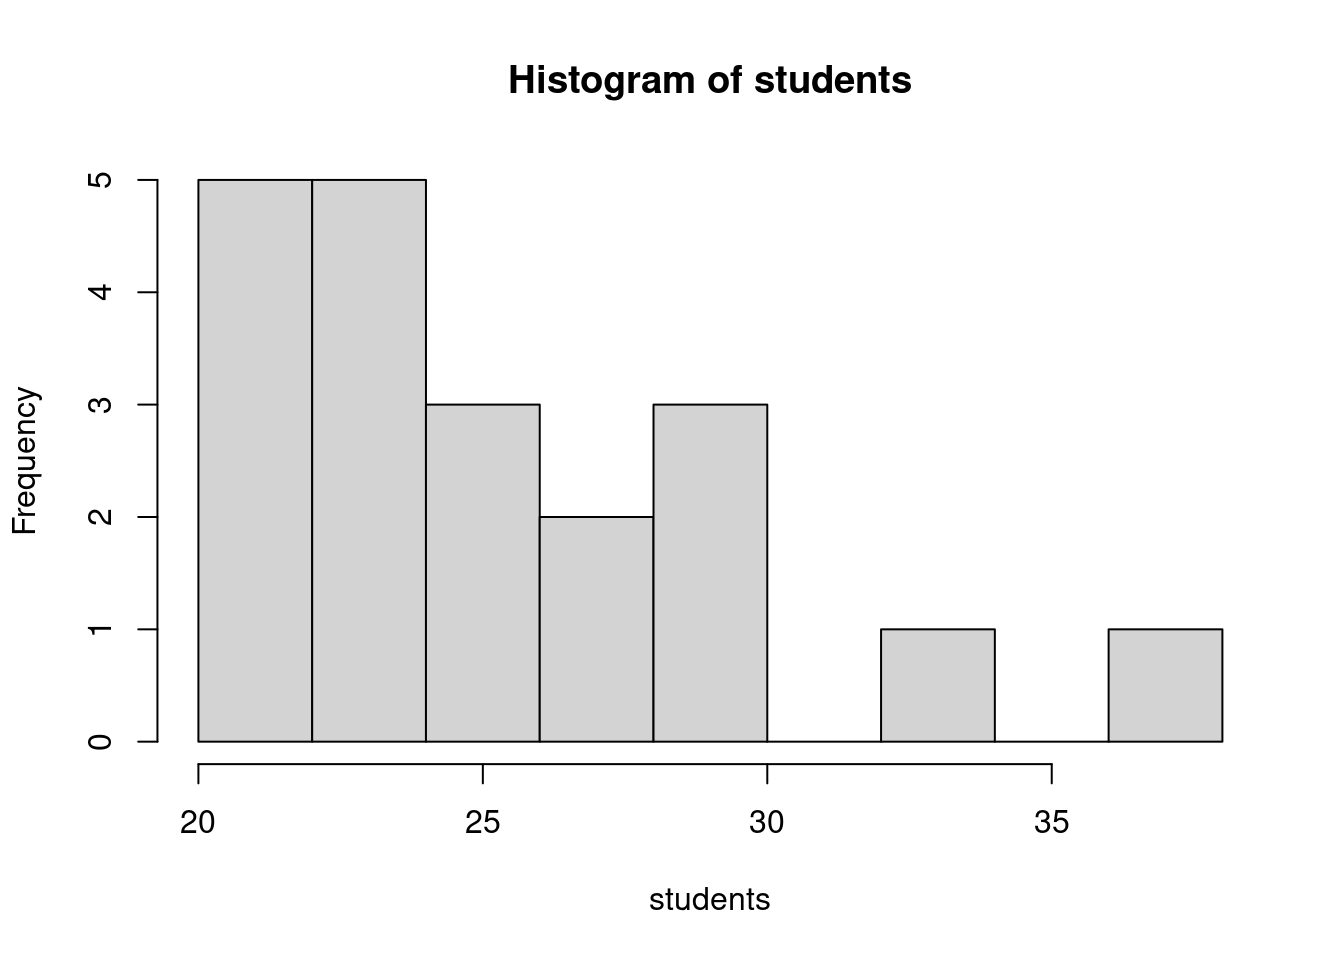
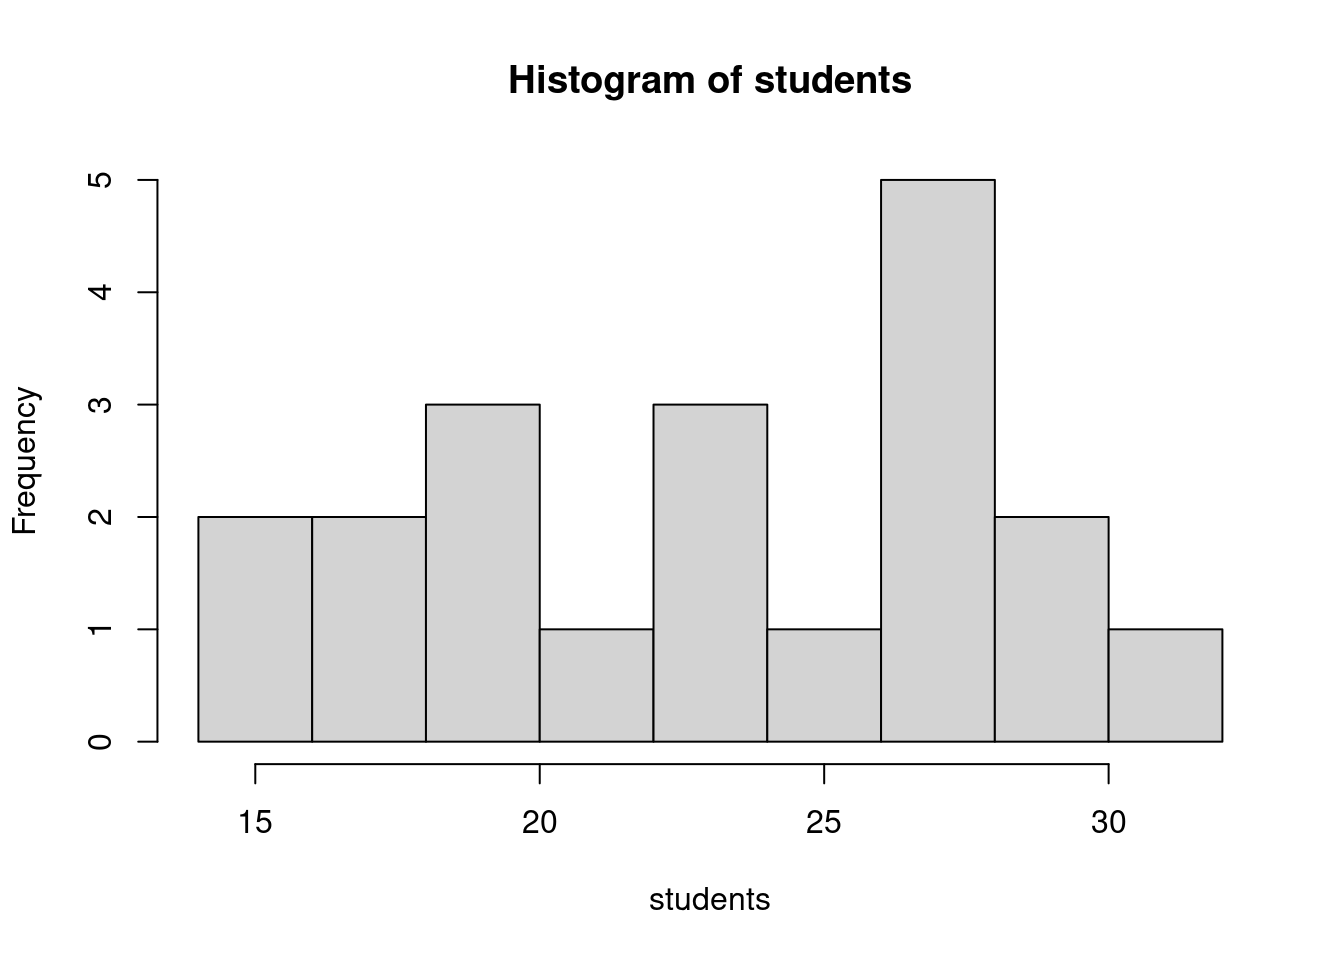
fixed an embarssing mistake in Chapter 3; added option of using R studio in a campus computer lab

diff --git a/_book/what-is-statistics.html b/_book/what-is-statistics.html
@@ -24,7 +24,7 @@
 <meta name="author" content="Virgil U Pierce" />
 
 
-<meta name="date" content="2021-05-17" />
+<meta name="date" content="2021-05-18" />
 
   <meta name="viewport" content="width=device-width, initial-scale=1" />
   <meta name="apple-mobile-web-app-capable" content="yes" />
@@ -253,6 +253,7 @@ code span.wa { color: #60a0b0; font-weight: bold; font-style: italic; } /* Warni
 <ol style="list-style-type: lower-alpha">
 <li>Cocalc provides an online interface that lets you issue R commands. It also includes a markdown language so you will be able to use it to prepare the documents for class. You can reach it here: <a href="https://cocalc.com/" class="uri">https://cocalc.com/</a> you will need to create an account.</li>
 <li>The university Apporto virtual machine: <a href="https://unco.apporto.com" class="uri">https://unco.apporto.com</a> has R studio installed. You can log in to it from any browser.</li>
+<li>If you are in Greeley you can use R on the machines in the computer labs on campus. Near my office is Ross 2261 and 2263. Note that parking is enforced in the summer, and that the building may be locked on the weekend.</li>
 </ol>
 <p>If at all possible I would recommend 1. as with the software installed locally you will not need to be using your internet connection. However students using 2. in my classes have reported that it works well for them.</p>
 </div>
@@ -283,11 +284,11 @@ While I am collecting this data you can reflect on this funny musing. I grew up 
 <span id="cb3-2"><a href="what-is-statistics.html#cb3-2" aria-hidden="true" tabindex="-1"></a>students <span class="ot">&lt;-</span> <span class="fu">round</span>(<span class="fu">rnorm</span>(<span class="dv">20</span>, <span class="dv">25</span>, <span class="dv">5</span>))</span>
 <span id="cb3-3"><a href="what-is-statistics.html#cb3-3" aria-hidden="true" tabindex="-1"></a></span>
 <span id="cb3-4"><a href="what-is-statistics.html#cb3-4" aria-hidden="true" tabindex="-1"></a><span class="co"># for class use this</span></span>
-<span id="cb3-5"><a href="what-is-statistics.html#cb3-5" aria-hidden="true" tabindex="-1"></a><span class="co"># students &lt;- {} </span></span>
+<span id="cb3-5"><a href="what-is-statistics.html#cb3-5" aria-hidden="true" tabindex="-1"></a><span class="co"># students &lt;- c() </span></span>
 <span id="cb3-6"><a href="what-is-statistics.html#cb3-6" aria-hidden="true" tabindex="-1"></a></span>
 <span id="cb3-7"><a href="what-is-statistics.html#cb3-7" aria-hidden="true" tabindex="-1"></a>students</span></code></pre></div>
-<pre><code>##  [1] 33 22 37 30 24 23 24 29 30 25 27 24 22 21 24 27 25 25 20 21</code></pre>
-<p><em>R Notes</em>: lists in R are enclosed in <em>curly braces</em> and each member of the list is separated by a <em>semi-colon</em> or a space; note I think leaving the space is bad practice and recommend not using that feature. In this case our list is a collection of integers. Lists can more generally be numbers or strings or even lists of lists.</p>
+<pre><code>##  [1] 28 15 23 29 28 27 15 23 22 30 27 27 17 20 25 18 32 19 19 24</code></pre>
+<p><em>R Notes</em>: c() stands for column and is one of the most basic data structures in R. Most things we will build will either manipulate columns directly or will use structures built out of columns.</p>
 <p>Comments in commands start with <em>hash symbols</em>.</p>
 <p>Another syntax note: R uses both = and &lt;- for assignment though they have slightly different meanings. They both work as you would expect, however &lt;- has some nice positives in the detailed differences and it is worth getting into the habit of using it.</p>
 <p><em>RStudio Note</em>: You might notice that the variable we have just created has appeared in the upper-right quadrant of RStudio.</p>
@@ -296,11 +297,11 @@ While I am collecting this data you can reflect on this funny musing. I grew up 
 <p>To get started we can use <em>summary</em> to get an overview of what our list of student enrollments look like. Review the meaning of each of these.</p>
 <div class="sourceCode" id="cb5"><pre class="sourceCode r"><code class="sourceCode r"><span id="cb5-1"><a href="what-is-statistics.html#cb5-1" aria-hidden="true" tabindex="-1"></a><span class="fu">summary</span>(students)</span></code></pre></div>
 <pre><code>##    Min. 1st Qu.  Median    Mean 3rd Qu.    Max. 
-##   20.00   22.75   24.50   25.65   27.50   37.00</code></pre>
+##   15.00   19.00   23.50   23.40   27.25   32.00</code></pre>
 <p>Mean and Median are <em>measures of center</em>, while the quartiles are <em>measures of spread</em>. One measure of spread missing is the variance or its square root standard deviation:</p>
 <div class="sourceCode" id="cb7"><pre class="sourceCode r"><code class="sourceCode r"><span id="cb7-1"><a href="what-is-statistics.html#cb7-1" aria-hidden="true" tabindex="-1"></a><span class="fu">var</span>(students); <span class="fu">sqrt</span>(<span class="fu">var</span>(students))</span></code></pre></div>
-<pre><code>## [1] 18.76579</code></pre>
-<pre><code>## [1] 4.33195</code></pre>
+<pre><code>## [1] 26.14737</code></pre>
+<pre><code>## [1] 5.11345</code></pre>
 <p>The variance is computed by taking the sum of the square differences between the data and the mean and then dividing that by number of items minus one; we will explain why this is what we divide by later in class:
 <span class="math display">\[ S = \frac{1}{n-1} \sum_{j=1}^n (y_j - \bar{y} )^2 \]</span> where <span class="math inline">\(\bar{y}\)</span> is the mean of the sample made up of the <span class="math inline">\(\{ y_1, y_2, \dots, y_n \}\)</span>.</p>
 <p>In the code blocks below I will add some comments about what we are doing:</p>
@@ -310,14 +311,13 @@ While I am collecting this data you can reflect on this funny musing. I grew up 
 <span id="cb10-4"><a href="what-is-statistics.html#cb10-4" aria-hidden="true" tabindex="-1"></a></span>
 <span id="cb10-5"><a href="what-is-statistics.html#cb10-5" aria-hidden="true" tabindex="-1"></a><span class="co"># R can then do the arithmetic and when we combine a list of numbers with a single number and square it, it knows what we mean.</span></span>
 <span id="cb10-6"><a href="what-is-statistics.html#cb10-6" aria-hidden="true" tabindex="-1"></a>(students <span class="sc">-</span> ybar)<span class="sc">^</span><span class="dv">2</span></span></code></pre></div>
-<pre><code>##  [1]  54.0225  13.3225 128.8225  18.9225   2.7225   7.0225   2.7225  11.2225
-##  [9]  18.9225   0.4225   1.8225   2.7225  13.3225  21.6225   2.7225   1.8225
-## [17]   0.4225   0.4225  31.9225  21.6225</code></pre>
+<pre><code>##  [1] 21.16 70.56  0.16 31.36 21.16 12.96 70.56  0.16  1.96 43.56 12.96 12.96
+## [13] 40.96 11.56  2.56 29.16 73.96 19.36 19.36  0.36</code></pre>
 <div class="sourceCode" id="cb12"><pre class="sourceCode r"><code class="sourceCode r"><span id="cb12-1"><a href="what-is-statistics.html#cb12-1" aria-hidden="true" tabindex="-1"></a><span class="co"># Then as we said, we sum over all of these and then divide by the number of them</span></span>
 <span id="cb12-2"><a href="what-is-statistics.html#cb12-2" aria-hidden="true" tabindex="-1"></a><span class="co"># minus 1</span></span>
 <span id="cb12-3"><a href="what-is-statistics.html#cb12-3" aria-hidden="true" tabindex="-1"></a></span>
 <span id="cb12-4"><a href="what-is-statistics.html#cb12-4" aria-hidden="true" tabindex="-1"></a><span class="fu">sum</span>( (students <span class="sc">-</span> ybar)<span class="sc">^</span><span class="dv">2</span> ) <span class="sc">/</span> ( <span class="fu">length</span>(students) <span class="sc">-</span> <span class="dv">1</span> )</span></code></pre></div>
-<pre><code>## [1] 18.76579</code></pre>
+<pre><code>## [1] 26.14737</code></pre>
 <p>Note why we compute variance in this way. We are trying to understand how far the data moves from the mean <span class="math inline">\(\bar{y}\)</span>. However we can’t just sum over the differences as that will just add up to zero:</p>
 <div class="sourceCode" id="cb14"><pre class="sourceCode r"><code class="sourceCode r"><span id="cb14-1"><a href="what-is-statistics.html#cb14-1" aria-hidden="true" tabindex="-1"></a><span class="fu">sum</span>(students <span class="sc">-</span> ybar )</span></code></pre></div>
 <pre><code>## [1] 2.842171e-14</code></pre>
